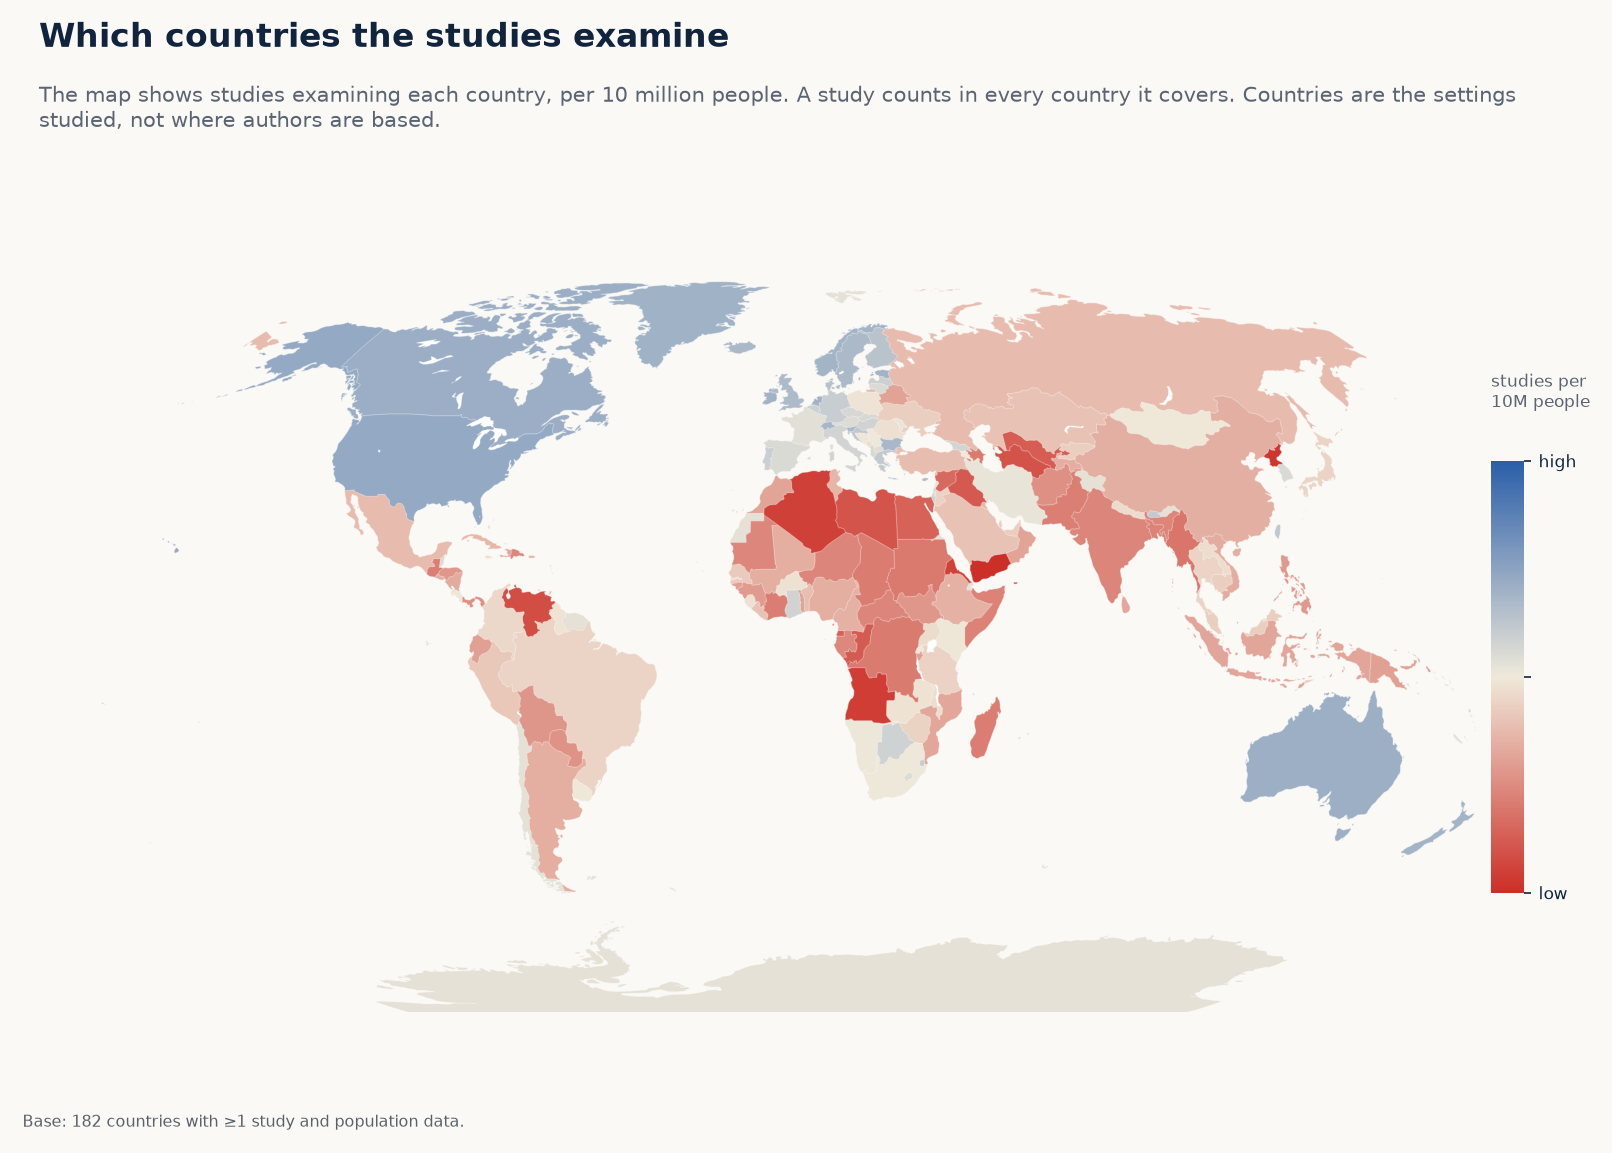
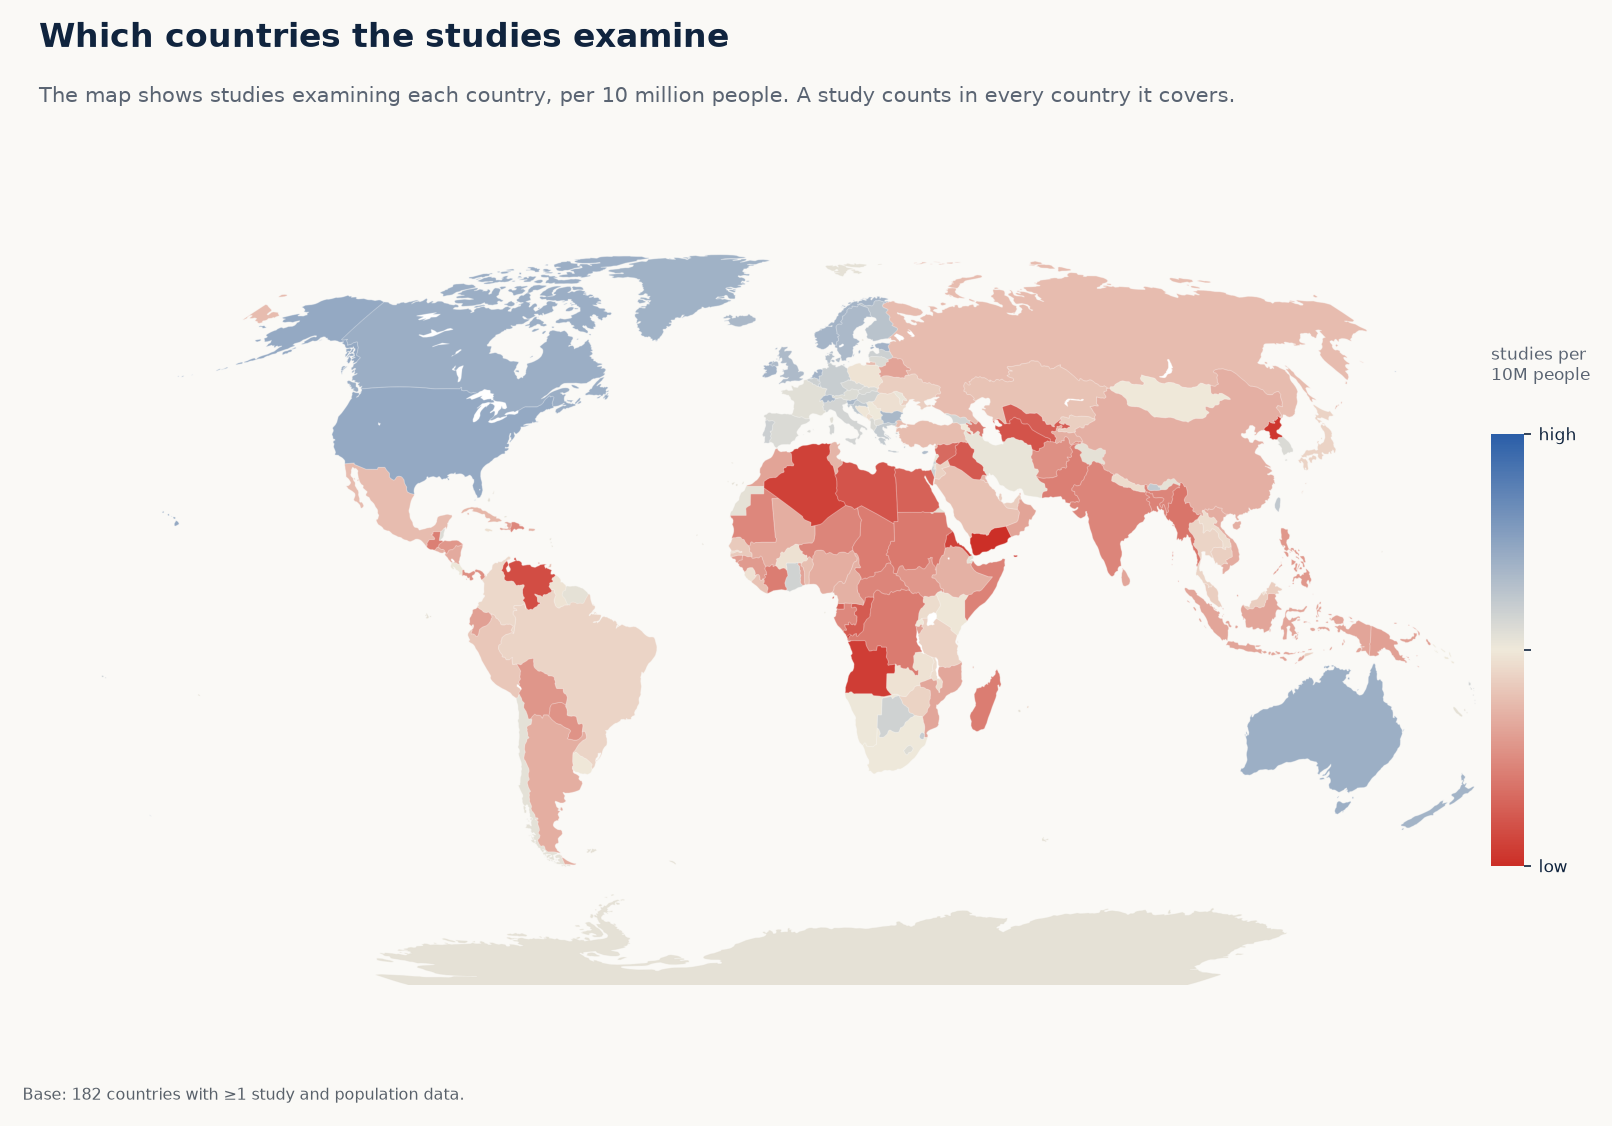
Drop the author-location sentences from geography figures
Remove "They are not where the authors are based..." from the technical
notes of the world map, top-20 and income charts, and "Countries are the
settings studied, not where authors are based." from the world map and
top-20 captions (re-rendered with figure_copy_v2_5.json).

diff --git a/docs/index.html b/docs/index.html
@@ -11,7 +11,7 @@
      versions with SHA-384 integrity hashes verified by double fetch. -->
 <link rel="stylesheet" href="https://cdn.jsdelivr.net/npm/tom-select@2.3.1/dist/css/tom-select.min.css" integrity="sha384-krui876Mk6M6Lq6uj1SQo+u4MoImxFwCfwzWNU982QBMNci3VMZ3FoYSdUakJD5I" crossorigin="anonymous">
 <link rel="stylesheet" href="https://cdn.jsdelivr.net/npm/nouislider@15.8.1/dist/nouislider.min.css" integrity="sha384-PSZaVsyG9jDu8hFaSJev5s/9poIJlX7cuxSGdqCgXRHpo2DzIaZAyCd2rG/DJJmV" crossorigin="anonymous">
-<link rel="stylesheet" href="styles.css?v=2026-10-14c">
+<link rel="stylesheet" href="styles.css?v=2026-10-14d">
 </head>
 <body>
 
@@ -82,7 +82,7 @@
         <div class="card-body overview-analysis-body">
           <button class="overview-figure-button" id="ov-worldmap-open" type="button"
                   aria-label="Open the figure showing which countries the studies examine">
-            <img class="overview-analysis-figure" src="figures/fig_worldmap.png?v=2026-10-14c"
+            <img class="overview-analysis-figure" src="figures/fig_worldmap.png?v=2026-10-14d"
                  alt="World map showing which countries health financing studies examine">
           </button>
         </div>
@@ -95,7 +95,7 @@
         <div class="card-body overview-analysis-body">
           <button class="overview-figure-button" id="ov-function-open" type="button"
                   aria-label="Open the studies by financing function figure">
-            <img class="overview-analysis-figure" src="figures/fig_function_bar.png?v=2026-10-14c"
+            <img class="overview-analysis-figure" src="figures/fig_function_bar.png?v=2026-10-14d"
                  alt="Bar chart showing studies by health financing function">
           </button>
         </div>
@@ -108,7 +108,7 @@
         <div class="card-body overview-analysis-body">
           <button class="overview-figure-button" id="ov-disease-method-open" type="button"
                   aria-label="Open the figure showing how each disease area is evaluated">
-            <img class="overview-analysis-figure" src="figures/fig_disease_method.png?v=2026-10-14c"
+            <img class="overview-analysis-figure" src="figures/fig_disease_method.png?v=2026-10-14d"
                  alt="Heatmap showing the mix of financing functions evaluated within each disease area">
           </button>
         </div>
@@ -147,7 +147,7 @@
     <div class="theme-wrap">
       <div id="gal-index">
         <header class="thematic-hero">
-          <img class="thematic-hero-map" src="figures/fig_worldmap.png?v=2026-10-14c" alt="" aria-hidden="true">
+          <img class="thematic-hero-map" src="figures/fig_worldmap.png?v=2026-10-14d" alt="" aria-hidden="true">
           <div class="thematic-hero-copy">
             <div class="thematic-eyebrow">Thematic analysis</div>
             <h1>Explore key patterns in the global health financing evidence base.</h1>
@@ -741,7 +741,7 @@
 <script src="https://cdn.jsdelivr.net/npm/plotly.js-dist-min@2.35.2/plotly.min.js" integrity="sha384-cCVCZkAjYNxaYKbM8lsArLznDF/SvMFr1jcZrvOpSTCa0W40ZAdLzHCEulnUa5i7" crossorigin="anonymous"></script>
 <script src="https://cdn.jsdelivr.net/npm/tom-select@2.3.1/dist/js/tom-select.complete.min.js" integrity="sha384-cnROoUgVILyibe3J0zhzWoJ9p2WmdnK7j/BOTSWqVDbC1pVw2d+i6Q/1ESKJKCYf" crossorigin="anonymous"></script>
 <script src="https://cdn.jsdelivr.net/npm/nouislider@15.8.1/dist/nouislider.min.js" integrity="sha384-EcVTHT5RdDTvzbTIbNOtaNxNALeJYDgmv5Crp3NBmcdrCPrDnqp6I1+ETJ/FCFHI" crossorigin="anonymous"></script>
-<script type="module" src="app.js?v=2026-10-14c"></script>
+<script type="module" src="app.js?v=2026-10-14d"></script>
 
 </body>
 </html>

diff --git a/docs/app.js b/docs/app.js
@@ -1,6 +1,6 @@
 // Cache-busting build token — bump alongside index.html's ?v= query string
 // whenever app.js or the data files change.
-const BUILD = "2026-10-14c";
+const BUILD = "2026-10-14d";
 
 const CODED_COLS = ["study_design", "type_of_analysis", "data_type", "data_source",
   "unit_of_observation", "geo_scope", "era"];
